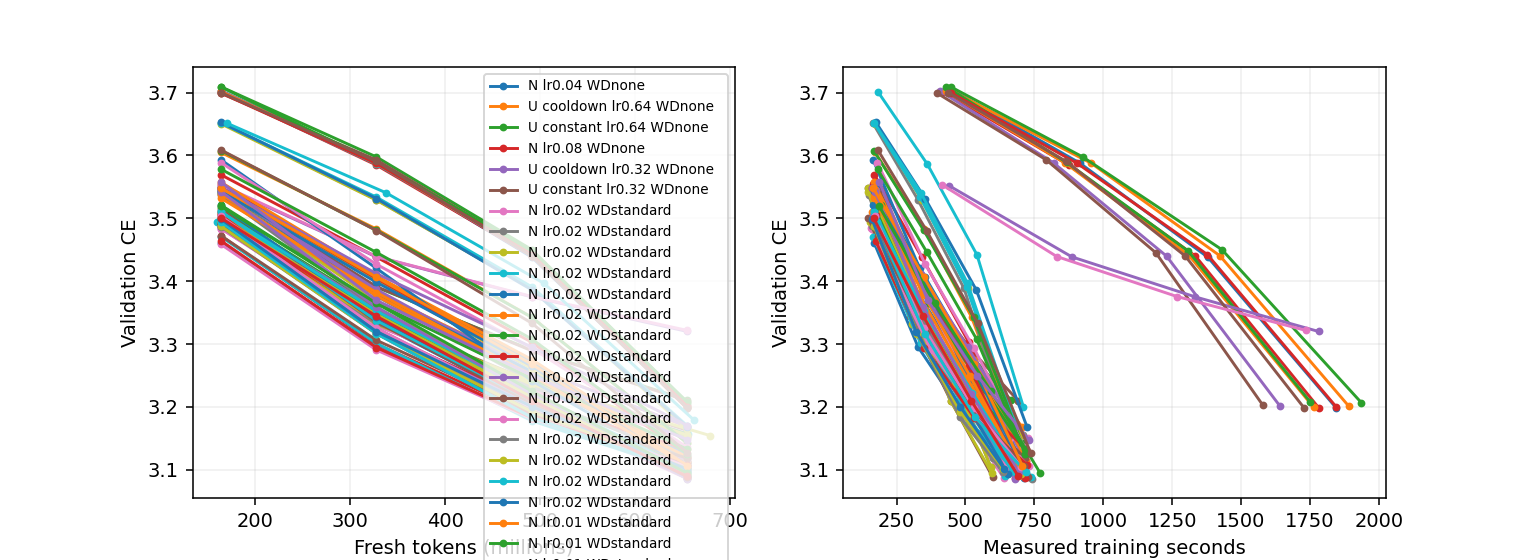
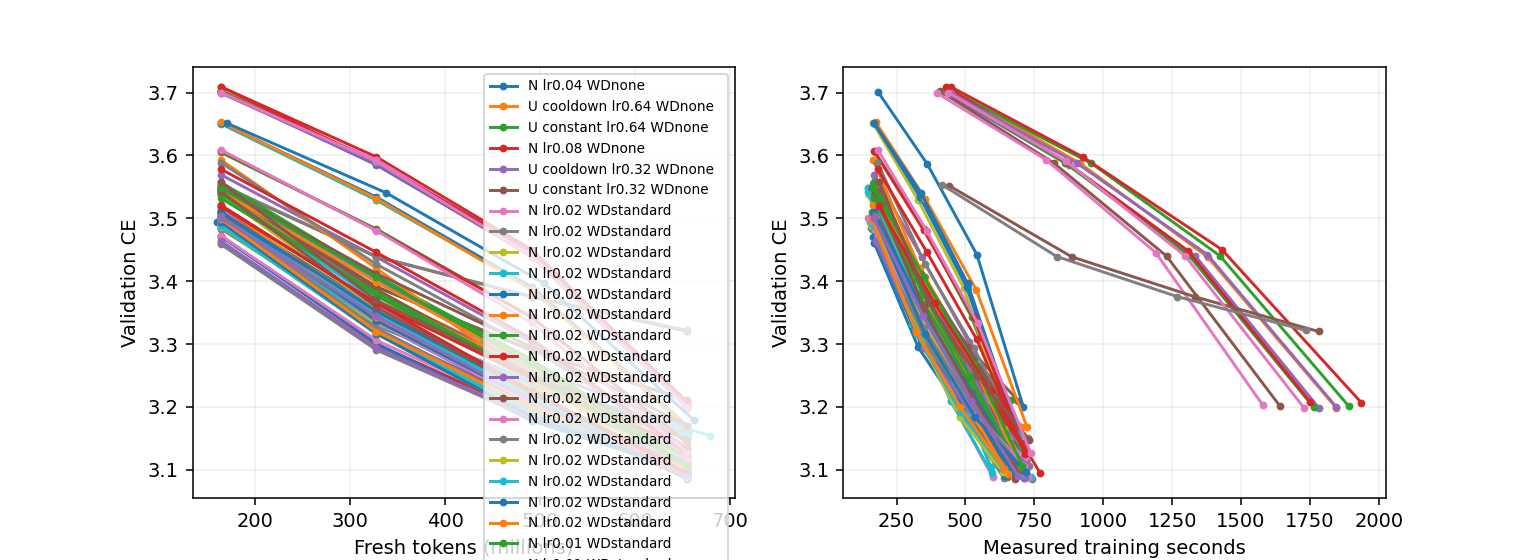
Update live Muon experiment results

diff --git a/research/unnormalized_muon/RESULTS.md b/research/unnormalized_muon/RESULTS.md
@@ -51,6 +51,7 @@ One B300 per job. CE is token cross-entropy (nats); lower is better. Rows with d
 | um-earlyalloc-confirm-matched-s70 | Clean Native cooldown fixed_lambda=0.0551271 WD:standard(0) | 20000 | 70 | 0.02 | 3.091825 | 0.937357 | 3.133393 | 747.43 |
 | um-earlyalloc-confirm-matched-s71 | Clean Native cooldown fixed_lambda=0.0551271 WD:standard(0) | 20000 | 71 | 0.02 | 3.087015 | 0.935905 | 3.127414 | 743.56 |
 | um-earlyalloc-confirm-matched-s72 | Clean Native cooldown fixed_lambda=0.0551271 WD:standard(0) | 20000 | 72 | 0.02 | 3.091281 | 0.937221 | 3.133921 | 779.60 |
+| um-earlyalloc-confirm-mid-s70 | Clean Native cooldown fixed_lambda=0.0459375 WD:standard(0) | 20000 | 70 | 0.02 | 3.088300 | 0.936291 | 3.130945 | 714.18 |
 | um-earlyalloc-confirm-neutral-s70 | Clean Native cooldown fixed_lambda=0.0382798 WD:standard(0) | 20000 | 70 | 0.02 | 3.087880 | 0.936181 | 3.128062 | 806.59 |
 | um-earlyalloc-confirm-neutral-s71 | Clean Native cooldown fixed_lambda=0.0382798 WD:standard(0) | 20000 | 71 | 0.02 | 3.086275 | 0.935689 | 3.128008 | 700.68 |
 | um-earlyalloc-confirm-neutral-s72 | Clean Native cooldown fixed_lambda=0.0382798 WD:standard(0) | 20000 | 72 | 0.02 | 3.098150 | 0.939295 | 3.139013 | 712.74 |
@@ -275,7 +276,9 @@ One B300 per job. CE is token cross-entropy (nats); lower is better. Rows with d
 
 Review of um-fw-diagnostic-001: Compiled training f0 compared against functional candidate losses; vanishing-step mismatch2-4e-5 exceeded tolerance, leading to curvature1e186 and45 skipped steps. Replaced by paired functional reference and candidates; retain all645 measured forwards and GPUcost.
 
-Conservative charged/reserved total: 41.5062 / 50 B300 GPU-hours. Includes prior smoke/failed attempts and current maximum-duration reservations. Six-slot central queue; one B300 per run.
+Review of um-earlyalloc-confirm-history-check-001: Invalid short check: horizon64 gives cooldown join22 before warmup40. Non-time runs intentionally ignore reference_updates override. early_reciprocal asserts warmup<join on first measured step. Fix check002 horizon128/join45 and fail-fast launcher validation; full20k arms unaffected.
+
+Conservative charged/reserved total: 42.3951 / 50 B300 GPU-hours. Includes prior smoke/failed attempts and current maximum-duration reservations. Six-slot central queue; one B300 per run.
 
 CLEAN geometry disables row equilibration and NorMuon. Original clean runs use zero matrix decay; new WD runs explicitly label standard or cautious decay and their CLI coefficient. Same five Polar Express steps and Frobenius correction; scale by the per-matrix nonnegative FP32 inner product of the native Nesterov input with the NS/Frobenius direction. Shape scaling occurs once outside the scalar. Legacy rows retain production extras and must be compared separately. Constant schedule changes only matrix LR; auxiliary schedules and momentum remain matched.
 

diff --git a/research/unnormalized_muon/DETAILED_EVAL.md b/research/unnormalized_muon/DETAILED_EVAL.md
@@ -21,6 +21,7 @@ All results use the B300 fork model/data/tokenizer and a fixed tuning-validation
 | normalized WD standard 0 | 0.02 | 20000 | 3.091825 | 685.49 | 747.43 |
 | normalized WD standard 0 | 0.02 | 20000 | 3.087015 | 680.93 | 743.56 |
 | normalized WD standard 0 | 0.02 | 20000 | 3.091281 | 700.68 | 779.60 |
+| normalized WD standard 0 | 0.02 | 20000 | 3.088300 | 650.49 | 714.18 |
 | normalized WD standard 0 | 0.02 | 20000 | 3.087880 | 726.88 | 806.59 |
 | normalized WD standard 0 | 0.02 | 20000 | 3.086275 | 639.78 | 700.68 |
 | normalized WD standard 0 | 0.02 | 20000 | 3.098150 | 657.07 | 712.74 |
@@ -302,6 +303,7 @@ The shifted reciprocal control uses eta_i(t)=eta_i0/(1+lambda eta_i0*t/2) after4
 | um-earlyalloc-confirm-matched-s70 | early_reciprocal native | 0.05512714 | 20000 | 3.091825 | 0 | 747.43 |
 | um-earlyalloc-confirm-matched-s71 | early_reciprocal native | 0.05512714 | 20000 | 3.087015 | 0 | 743.56 |
 | um-earlyalloc-confirm-matched-s72 | early_reciprocal native | 0.05512714 | 20000 | 3.091281 | 0 | 779.60 |
+| um-earlyalloc-confirm-mid-s70 | early_reciprocal native | 0.04593747 | 20000 | 3.088300 | 0 | 714.18 |
 | um-earlyalloc-confirm-neutral-s70 | early_reciprocal native | 0.03827981 | 20000 | 3.087880 | 0 | 806.59 |
 | um-earlyalloc-confirm-neutral-s71 | early_reciprocal native | 0.03827981 | 20000 | 3.086275 | 0 | 700.68 |
 | um-earlyalloc-confirm-neutral-s72 | early_reciprocal native | 0.03827981 | 20000 | 3.098150 | 0 | 712.74 |
